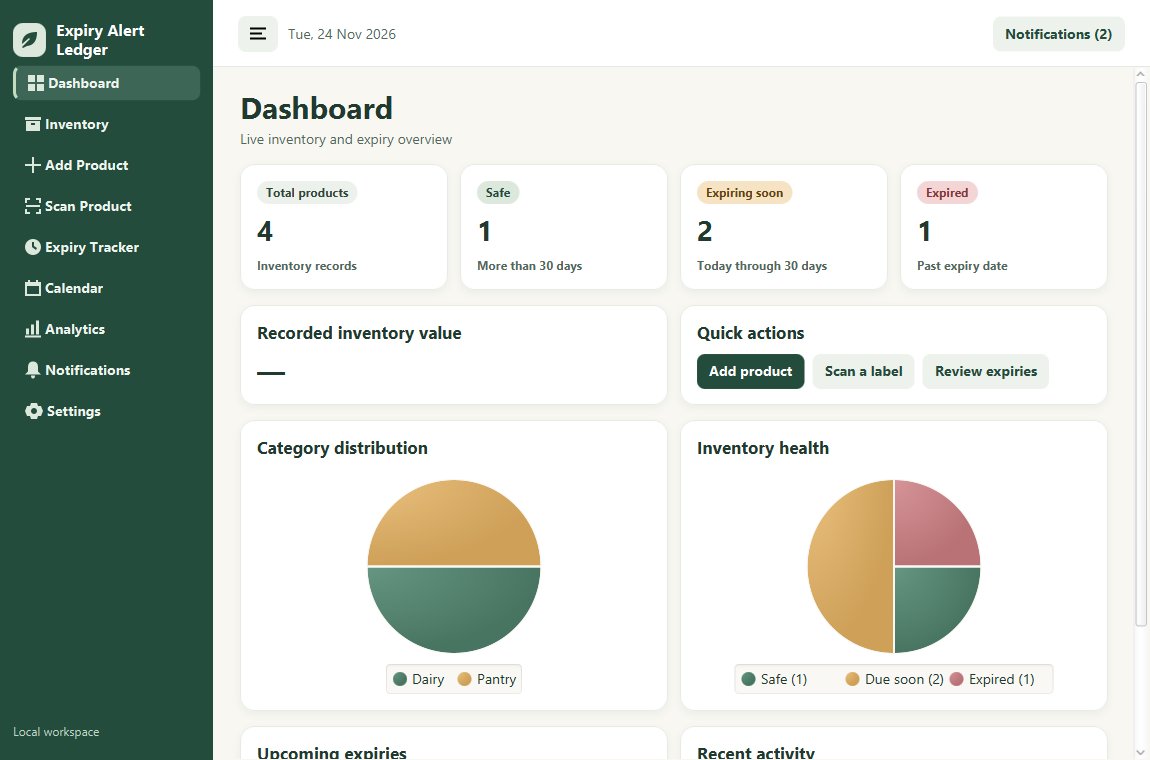
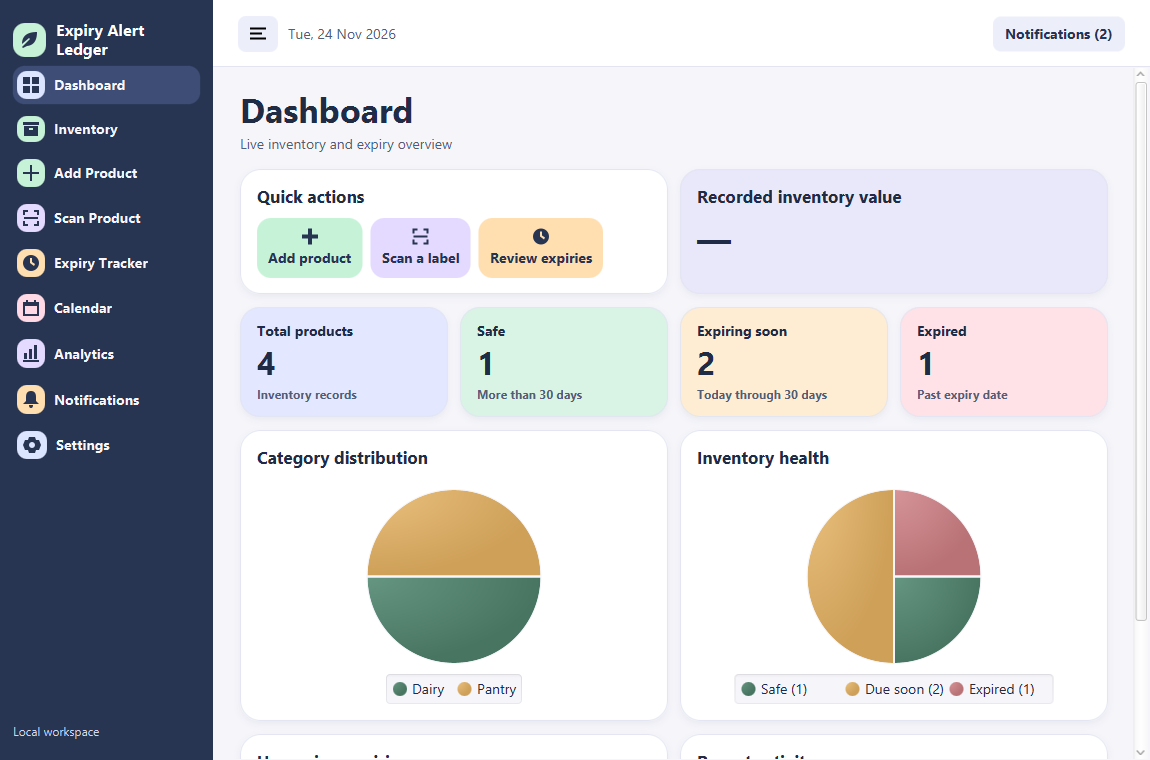
Refresh JavaFX dashboard with colorful launcher tiles

diff --git a/src/main/resources/gui/ledger.css b/src/main/resources/gui/ledger.css
@@ -2,50 +2,50 @@
     -fx-font-family: "Segoe UI";
     -fx-font-size: 14px;
     -fx-base: #fff;
-    -fx-background: #f8f7f2;
-    -fx-accent: #39705a;
-    -fx-focus-color: #39705a;
-    -fx-faint-focus-color: #39705a26;
+    -fx-background: #f5f5fa;
+    -fx-accent: #565ca5;
+    -fx-focus-color: #565ca5;
+    -fx-faint-focus-color: #565ca526;
 }
-.label, .check-box { -fx-text-fill: #203a30; }
-.workspace, .page-scroll, .page-scroll > .viewport { -fx-background-color: #f8f7f2; }
-.sidebar { -fx-background-color: #244c3d; -fx-padding: 20 12; }
+.label, .check-box { -fx-text-fill: #202b45; }
+.workspace, .page-scroll, .page-scroll > .viewport { -fx-background-color: #f5f5fa; }
+.sidebar { -fx-background-color: #273452; -fx-padding: 20 12; }
 .sidebar .label { -fx-text-fill: white; }
 .sidebar .profile { -fx-text-fill: #c0d8c9; -fx-font-size: 12px; }
 .brand { -fx-font-weight: bold; -fx-font-size: 16px; }
 .brand-mark { -fx-background-color: #dce8dc; -fx-background-radius: 10; -fx-padding: 9; }
-.brand-mark .icon { -fx-fill: #244c3d; }
-.sidebar .button { -fx-background-color: transparent; -fx-text-fill: #edf5ef; -fx-alignment: center-left; }
-.sidebar .button:hover, .sidebar .button.active { -fx-background-color: #3e6656; }
+.brand-mark .icon { -fx-fill: #273452; }
+.sidebar .button { -fx-background-color: transparent; -fx-text-fill: #f6f6fe; -fx-alignment: center-left; }
+.sidebar .button:hover, .sidebar .button.active { -fx-background-color: #3d4d75; }
 .sidebar .button.active { -fx-border-width: 0 0 0 3; -fx-border-color: transparent transparent transparent #c3dcbf; }
 .sidebar .button .icon { -fx-fill: #dce8dc; }
-.topbar { -fx-padding: 15 24; -fx-background-color: white; -fx-border-color: transparent transparent #e4e9e1 transparent; }
+.topbar { -fx-padding: 15 24; -fx-background-color: white; -fx-border-color: transparent transparent #e2e5f1 transparent; }
 .page { -fx-padding: 22 26 28; -fx-spacing: 16; }
 .title { -fx-font-size: 30px; -fx-font-weight: bold; }
 .section { -fx-font-size: 17px; -fx-font-weight: bold; }
-.muted { -fx-text-fill: #53695e; }
-.card { -fx-padding: 16; -fx-spacing: 10; -fx-background-color: white; -fx-background-radius: 14; -fx-border-radius: 14; -fx-border-color: #e5eae2; -fx-effect: dropshadow(gaussian, #244c3d0c, 11, 0.14, 0, 3); }
+.muted { -fx-text-fill: #535e75; }
+.card { -fx-padding: 16; -fx-spacing: 10; -fx-background-color: white; -fx-background-radius: 14; -fx-border-radius: 14; -fx-border-color: #e2e5f1; -fx-effect: dropshadow(gaussian, #2734520c, 11, 0.14, 0, 3); }
 .metric { -fx-font-size: 28px; -fx-font-weight: bold; }
 .metric-caption { -fx-font-size: 12px; -fx-font-weight: bold; }
-.button, .menu-button { -fx-background-color: #edf3ec; -fx-background-radius: 8; -fx-padding: 8 12; -fx-text-fill: #244c3d; -fx-cursor: hand; -fx-font-weight: bold; }
+.button, .menu-button { -fx-background-color: #eceefa; -fx-background-radius: 8; -fx-padding: 8 12; -fx-text-fill: #273452; -fx-cursor: hand; -fx-font-weight: bold; }
 .button:hover, .menu-button:hover { -fx-background-color: #dce8dc; }
 .button:focused, .menu-button:focused { -fx-border-color: #75a489; -fx-border-radius: 8; }
-.button.primary { -fx-background-color: #244c3d; -fx-text-fill: white; }
-.button.primary:hover { -fx-background-color: #33664f; }
+.button.primary { -fx-background-color: #273452; -fx-text-fill: white; }
+.button.primary:hover { -fx-background-color: #404e7a; }
 .button.danger { -fx-background-color: #f3d5d5; -fx-text-fill: #833739; }
 .badge { -fx-padding: 4 9; -fx-background-radius: 20; -fx-font-size: 12px; -fx-font-weight: bold; }
-.sage { -fx-background-color: #dce8dc; -fx-text-fill: #244c3d; }
+.sage { -fx-background-color: #dce8dc; -fx-text-fill: #273452; }
 .amber { -fx-background-color: #f5e3c3; -fx-text-fill: #624510; }
 .rose { -fx-background-color: #f3d5d5; -fx-text-fill: #833739; }
 .neutral { -fx-background-color: #edf1ec; -fx-text-fill: #30463a; }
-.text-input, .date-picker, .combo-box { -fx-background-radius: 8; -fx-border-radius: 8; -fx-border-color: #dbe5dc; }
+.text-input, .date-picker, .combo-box { -fx-background-radius: 8; -fx-border-radius: 8; -fx-border-color: #dce0ec; }
 .text-input:focused, .date-picker:focused, .combo-box:focused { -fx-border-color: #75a489; }
-.table-view { -fx-background-color: white; -fx-border-color: #e4e9e1; -fx-background-radius: 10; -fx-border-radius: 10; }
-.table-view .column-header-background, .table-view .column-header, .table-view .filler { -fx-background-color: #edf3ec; }
+.table-view { -fx-background-color: white; -fx-border-color: #e2e5f1; -fx-background-radius: 10; -fx-border-radius: 10; }
+.table-view .column-header-background, .table-view .column-header, .table-view .filler { -fx-background-color: #eceefa; }
 .table-view .column-header .label { -fx-padding: 9 5; -fx-alignment: center-left; }
 .table-row-cell { -fx-cell-size: 39; -fx-border-color: transparent transparent #edf1ec transparent; }
 .table-row-cell:filled:selected { -fx-background-color: #dce8dc; }
-.table-row-cell:filled:selected .table-cell { -fx-text-fill: #203a30; }
+.table-row-cell:filled:selected .table-cell { -fx-text-fill: #202b45; }
 .chart { -fx-padding: 0; }
 .default-color0.chart-pie, .default-color0.chart-bar { -fx-pie-color: #50836d; -fx-bar-fill: #50836d; }
 .default-color1.chart-pie { -fx-pie-color: #e5b362; }
@@ -55,16 +55,44 @@
 .default-color0.chart-series-line { -fx-stroke: #50836d; }
 .default-color0.chart-line-symbol { -fx-background-color: #50836d, white; }
 .calendar-day { -fx-min-height: 48; -fx-background-radius: 8; }
-.calendar-day.selected { -fx-border-color: #244c3d; -fx-border-radius: 8; }
+.calendar-day.selected { -fx-border-color: #273452; -fx-border-radius: 8; }
 .scan-track { -fx-fill: #50836d; -fx-arc-width: 4; -fx-arc-height: 4; }
-.footer { -fx-padding: 9 24; -fx-background-color: white; -fx-border-color: #e4e9e1 transparent transparent transparent; }
+.footer { -fx-padding: 9 24; -fx-background-color: white; -fx-border-color: #e2e5f1 transparent transparent transparent; }
 .progress-bar > .bar { -fx-background-color: #50836d; }
 .progress-bar.rose > .bar { -fx-background-color: #ce8084; }
 .progress-bar.amber > .bar { -fx-background-color: #e5b362; }
 
 .error { -fx-text-fill: #833739; }
-.sidebar-scroll, .sidebar-scroll > .viewport { -fx-background-color: #244c3d; }
+.sidebar-scroll, .sidebar-scroll > .viewport { -fx-background-color: #273452; }
 .button.calendar-day.sage { -fx-background-color: #dce8dc; }
 .button.calendar-day.amber { -fx-background-color: #f5e3c3; }
 .button.calendar-day.rose { -fx-background-color: #f3d5d5; }
 .button.calendar-day:hover { -fx-border-color: #75a489; -fx-border-radius: 8; }
+
+.brand-mark { -fx-background-color: #c6f3d7; -fx-background-radius: 12; }
+.sidebar .profile { -fx-text-fill: #d0d9ee; }
+.sidebar .button { -fx-padding: 5 4; -fx-graphic-text-gap: 9; }
+.sidebar .button.active { -fx-border-width: 0; -fx-background-radius: 12; }
+.sidebar .nav-glyph { -fx-padding: 6; -fx-background-radius: 10; -fx-background-color: #dce5ff; }
+.sidebar .nav-glyph .icon { -fx-fill: #273452; }
+.sidebar .glyph-add, .sidebar .glyph-inventory { -fx-background-color: #c6f3d7; }
+.sidebar .glyph-scan, .sidebar .glyph-analytics { -fx-background-color: #e4d9ff; }
+.sidebar .glyph-tracker, .sidebar .glyph-notifications { -fx-background-color: #ffdfb0; }
+.sidebar .glyph-calendar { -fx-background-color: #ffd9e5; }
+.card { -fx-background-radius: 20; -fx-border-radius: 20; }
+.title { -fx-font-size: 34px; }
+.metric-widget { -fx-padding: 14 16; -fx-spacing: 4; }
+.metric-widget.neutral { -fx-background-color: #e3e7ff; }
+.metric-widget.sage { -fx-background-color: #d9f4e5; }
+.metric-widget.amber { -fx-background-color: #ffedd3; }
+.metric-widget.rose { -fx-background-color: #ffe2e8; }
+.metric-label { -fx-font-weight: bold; }
+.metric-widget .metric { -fx-font-size: 32px; }
+.value-widget { -fx-background-color: #e9e7fa; }
+.value-widget .metric { -fx-font-size: 34px; }
+.button.launch-tile { -fx-padding: 9 11; -fx-min-width: 88; -fx-min-height: 59; -fx-background-radius: 14; }
+.button.launch-tile .icon { -fx-fill: #273452; }
+.button.launch-tile.mint { -fx-background-color: #c6f3d7; }
+.button.launch-tile.lilac { -fx-background-color: #e4d9ff; }
+.button.launch-tile.peach { -fx-background-color: #ffdfb0; }
+.button.launch-tile:hover { -fx-effect: dropshadow(gaussian, #27345238, 9, 0.15, 0, 2); }

diff --git a/src/gui/OverviewView.java b/src/gui/OverviewView.java
@@ -48,8 +48,11 @@ final class OverviewView {
                 metric("Expired", expired, "Past expiry date", "rose"));
         if (expired > 0 && !reduced) Motion.scale(metrics.getChildren().get(3), 1.015, 1);
         VBox value = card("Recorded inventory value", label(value(items), "metric"));
+        value.getStyleClass().add("value-widget");
         VBox actions = card("Quick actions", new FlowPane(8, 8,
-                button("Add product", add, "primary"), button("Scan a label", scan), button("Review expiries", tracker)));
+                launchTile("Add product", add, "M7 1H11V7H17V11H11V17H7V11H1V7H7Z", "mint"),
+                launchTile("Scan a label", scan, "M1 1H6V3H3V6H1ZM12 1H17V6H15V3H12ZM1 12H3V15H6V17H1ZM15 12H17V17H12V15H15ZM2 8H16V10H2Z", "lilac"),
+                launchTile("Review expiries", tracker, "M9 1A8 8 0 1 0 9 17A8 8 0 0 0 9 1ZM8 4H10V8L13 10L12 12L8 9Z", "peach")));
         List<Item> upcoming = items.stream().filter(i -> !i.getExpiryDate().isBefore(today))
                 .sorted(Comparator.comparing(Item::getExpiryDate)).limit(5).toList();
         VBox due = card("Upcoming expiries");
@@ -62,7 +65,7 @@ final class OverviewView {
         VBox recent = card("Recent activity");
         if (activity.isEmpty()) recent.getChildren().add(label("Changes made in this session appear here.", "muted"));
         activity.forEach(entry -> recent.getChildren().add(label(entry, "muted")));
-        return new VBox(15, metrics, tiles(value, actions),
+        return new VBox(13, tiles(actions, value), metrics,
                 tiles(card("Category distribution", categories()), card("Inventory health", health())),
                 tiles(due, recent));
     }
@@ -79,10 +82,19 @@ final class OverviewView {
                         label("Dates from current inventory records", "muted"))));
     }
 
+    private Node launchTile(String name, Runnable action, String path, String color) {
+        var tile = button(name, action, "launch-tile", color);
+        tile.setGraphic(icon(path));
+        tile.setContentDisplay(javafx.scene.control.ContentDisplay.TOP);
+        return tile;
+    }
+
     private VBox metric(String title, int target, String caption, String color) {
         Label number = label("", "metric");
         Motion.count(number, target, reduced);
-        return card("", badge(title, color), number, label(caption, "muted", "metric-caption"));
+        VBox widget = card("", label(title, "metric-label"), number, label(caption, "muted", "metric-caption"));
+        widget.getStyleClass().addAll("metric-widget", color);
+        return widget;
     }
 
     private GridPane tiles(Node... nodes) {

diff --git a/src/gui/LedgerApp.java b/src/gui/LedgerApp.java
@@ -128,7 +128,9 @@ public class LedgerApp extends Application {
         sidebar.getChildren().add(row(logo, brand));
         for (Page item : Page.values()) {
             Button button = button(item.title, () -> navigate(item));
-            button.setGraphic(icon(item.icon));
+            StackPane glyph = new StackPane(icon(item.icon));
+            glyph.getStyleClass().addAll("nav-glyph", "glyph-" + item.name().toLowerCase(Locale.ROOT));
+            button.setGraphic(glyph);
             button.setMaxWidth(Double.MAX_VALUE);
             tip(button, item.title);
             navigation.put(item, button);
